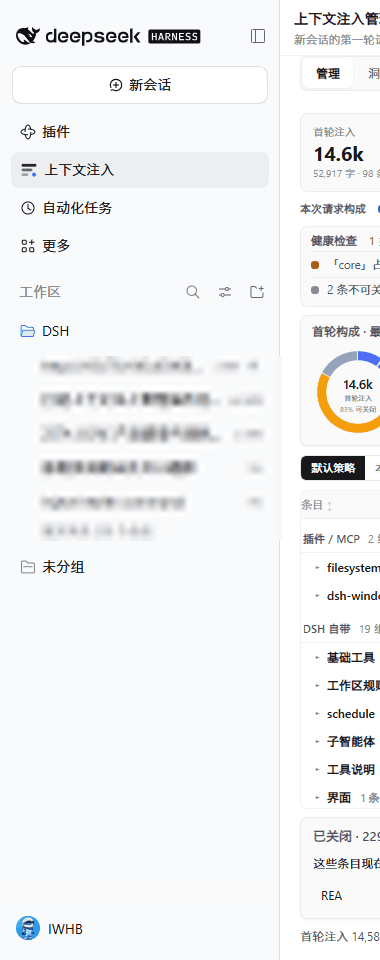
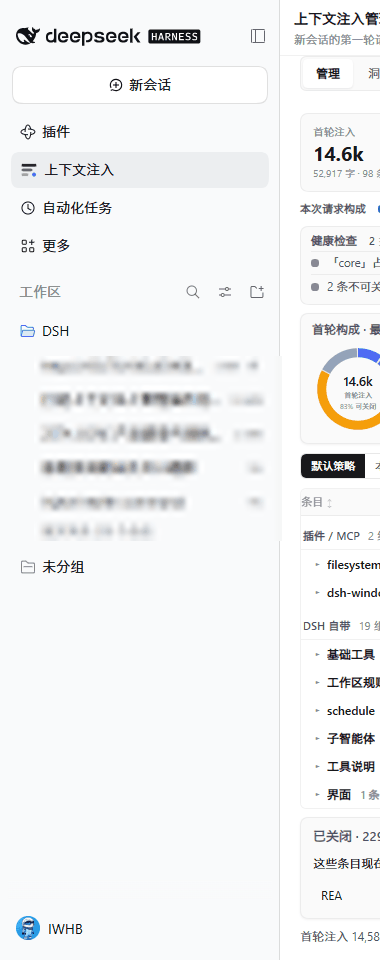
fix: 2.1.1 健康检查不再推荐关闭 DSH 自带套件（builtin-heavy 信息项），修复套件行开关发错分组 id 导致的哑开关
[dsh:session=8ba76b33] [dida:6afaed97e4b0294e306fce7b]

Changed region(s): [[0.7816, 0.25, 1.0, 0.8438]]

diff --git a/lib/health.js b/lib/health.js
@@ -18,6 +18,7 @@ import { percent } from './measure.js'
 
 export const HEALTH_CODES = Object.freeze([
   'heavy-suite',
+  'builtin-heavy',
   'duplicate-skill',
   'tool-name-collision',
   'catalog-truncated',
@@ -116,16 +117,20 @@ export function buildHealth(snapshot) {
   const context = snapshot.context ?? {}
   const skills = snapshot.skillsState ?? {}
 
-  // heavy-suite: one suite carrying a quarter of the next first turn, or 30k
-  // token that is still on. A suite already switched off has nothing left to
-  // flag — its remaining tokens are zero and it drops out before the gate.
-  const heavy = groups
+  // heavy-suite: one installed plugin / MCP suite carrying a quarter of the next
+  // first turn, or 30k token that is still on. A suite already switched off has
+  // nothing left to flag — its remaining tokens are zero and it drops out before
+  // the gate. DSH built-in suites are reported separately as `builtin-heavy`
+  // (info, no action): the host's own tool families are not a sensible thing to
+  // recommend switching off, even when they are the biggest part of the turn.
+  const heavyCandidates = groups
     .map((group) => ({ group, ...effectiveGroup(group) }))
     .filter((entry) => entry.savable > 0)
     .map((entry) => ({ ...entry, share: percent(entry.tokens, Math.max(1, total)) }))
     .filter((entry) => entry.share >= HEAVY_SHARE || entry.tokens >= HEAVY_TOKENS)
     .sort((left, right) => right.tokens - left.tokens)
-    .slice(0, HEAVY_MAX_CHECKS)
+  const isBuiltin = (entry) => entry.group?.origin === 'builtin'
+  const heavy = heavyCandidates.filter((entry) => !isBuiltin(entry)).slice(0, HEAVY_MAX_CHECKS)
   for (const entry of heavy) {
     const group = entry.group
     checks.push({
@@ -139,6 +144,21 @@ export function buildHealth(snapshot) {
         channel: String(group.channel ?? ''),
       },
       action: groupAction(group, items),
+    })
+  }
+  const builtinHeavy = heavyCandidates.filter(isBuiltin)[0]
+  if (builtinHeavy !== undefined) {
+    const group = builtinHeavy.group
+    checks.push({
+      code: 'builtin-heavy',
+      severity: 'info',
+      params: {
+        label: String(group.label ?? group.id ?? ''),
+        tokens: builtinHeavy.tokens,
+        share: builtinHeavy.share,
+        count: builtinHeavy.count,
+        channel: String(group.channel ?? ''),
+      },
     })
   }
 

diff --git a/client.js b/client.js
@@ -4310,8 +4310,13 @@ body[data-ds-dark-theme] .ci-root{
             const verb = enabled ? t('turnedOn') : t('turnedOff')
             const count = group.items ? group.items.length : group.count
             const label = `${verb} ${groupLabelOf(t, group)} · ${count} ${t('items')}`
-            if (Array.isArray(group.parts) && group.parts.length > 1) {
-              act({ kind: 'groups', groups: group.parts, enabled }, label)
+            const parts = Array.isArray(group.parts) ? group.parts.filter((part) => part !== null && typeof part === 'object') : []
+            if (parts.length > 1) {
+              act({ kind: 'groups', groups: parts, enabled }, label)
+            } else if (parts.length === 1) {
+              // The merged row is keyed by label; the action needs the real
+              // channel+group pair, exactly like the health-strip action.
+              act({ kind: 'group', channel: parts[0].channel, group: parts[0].group, enabled }, label)
             } else {
               act({ kind: 'group', channel: group.channel, group: group.id, enabled }, label)
             }

diff --git a/lib/text.js b/lib/text.js
@@ -230,6 +230,8 @@ export function healthCheckText(check) {
   const params = check?.params ?? {}
   switch (check?.code) {
     case 'heavy-suite':
+    case 'builtin-heavy':
+      return `「${params.label ?? '套件'}」占首轮 ${params.share ?? 0}%（${formatTokens(params.tokens ?? 0)} token · ${params.count ?? 0} 条）——DSH 自带套件，不建议关闭`
       return `${params.label ?? '套件'} 占首轮 ${params.share ?? 0}%（${formatTokens(params.tokens ?? 0)} token · ${params.count ?? 0} 条）`
     case 'catalog-truncated':
       return `${params.count ?? 0} 个技能描述被截断（>${params.limit ?? 500} 字）`

diff --git a/docs/ARCHITECTURE.md b/docs/ARCHITECTURE.md
@@ -128,7 +128,7 @@ agent/created (source=startup|clear)
 
 `lib/health.js` 的 `buildHealth(snapshot)` 是纯函数：输入一份快照，输出 `{summary, checks}`；唯一的时钟值是 `snapshot.generatedAt`，所以同一份快照两次调用逐字节一致。面板、`/health` 路由、`/inject health` 都调它。
 
-- 固定 8 个 code 的枚举，当前实现实际会产生 6 个：`heavy-suite`（策略生效后单套仍占 ≥25% 或 ≥30k token）、`catalog-truncated`（描述被目录行截断）、`locked-items`（不可关项 ≥10%）、`unknown-window`（无测量）、`no-policy`（从没保存过策略且全开）、`empty-catalog`（目录为空且完整）。
+- 固定 9 个 code 的枚举，当前实现实际会产生 7 个：`heavy-suite`（策略生效后，**安装的插件 / MCP 套件**仍占 ≥25% 或 ≥30k token）、`builtin-heavy`（同类阈值但来源是 DSH 自带套件：只报 info、不给 action——关宿主的工具族不是合理默认）、`catalog-truncated`（描述被目录行截断）、`locked-items`（不可关项 ≥10%）、`unknown-window`（无测量）、`no-policy`（从没保存过策略且全开）、`empty-catalog`（目录为空且完整）。来源取自 `group.origin`：`plugin` 才进 `heavy-suite`，`builtin` 进 `builtin-heavy`；没有 `origin` 的旧快照按可行动处理，行为不变。
 - 检查一律读**有效投影**（`groups.onTokens` / `groups.onSavableTokens` / `snapshot.effective.totals`），不是当前会话冻结的全量装配：当前会话里已经关掉的套件条目还在（本会话不受新策略影响），但它的有效 token 是 0，所以关掉一套之后它自己的告警立刻消失。快照没有 `on*` 字段时回退到全量口径，旧宿主行为不变。
 - `duplicate-skill` 与 `tool-name-collision` **刻意不产生**：这版宿主的技能注册表与工具注册表在插件可见之前就解析掉了重名，报出来就是编造。枚举保留完整，未来宿主能观察到时再加，UI 契约不变。
 - `action.kind` 只有三种：`switch-group` / `open-content` / `open-tab`；`payload` 直接是 `POST /action` 能吃下的形状（`{channel, group, enabled, op}` 等），`switch-group` 额外带 `parts[]`（这套覆盖的每个 `channel+group`），面板一次点掉所有通道；旧宿主只给 `channel+group` 时面板按 label 反查。动作不再做二次映射。

diff --git a/README.md b/README.md
@@ -59,9 +59,11 @@ applies the switches without touching your files.
   one plain list without headers. `/summary` stamps `origin: "plugin" | "builtin"` on every item
   and group and adds the effective counters `onCount`, `offCount`, `onTokens`, `offTokens`,
   `onSavableTokens` to each group.
-- **Health checks** — deterministic findings (`heavy-suite`, `catalog-truncated`, `locked-items`,
-  `unknown-window`, `no-policy`, `empty-catalog`) over the policy-effective projection, each with a
-  one-click action.
+- **Health checks** — deterministic findings (`heavy-suite`, `builtin-heavy`, `catalog-truncated`,
+  `locked-items`, `unknown-window`, `no-policy`, `empty-catalog`) over the policy-effective
+  projection. Only installed plugin / MCP suites get a one-click "switch it off"; a large DSH
+  built-in suite is reported as an informational note, because closing the host's own tool families
+  is not a sensible default.
 - The content drawer, the insights tab and the rest of the control plane are unchanged.
 
 Full detail: [CHANGELOG.md](CHANGELOG.md) · [docs/DETAIL.md](docs/DETAIL.md).
@@ -175,7 +177,8 @@ The manage page opens with a deterministic strip of findings over the current sn
 
 | Code | Meaning | Action |
 | --- | --- | --- |
-| `heavy-suite` | One suite is ≥25% of the next first request under the saved policy (or ≥30k tokens) | Switch that suite off — every channel it spans |
+| `heavy-suite` | An installed plugin / MCP suite is ≥25% of the next first request under the saved policy (or ≥30k tokens) | Switch that suite off — every channel it spans |
+| `builtin-heavy` | A DSH built-in suite is that big (informational; closing host tool families is not recommended) | (informational) |
 | `catalog-truncated` | Skill descriptions are being cut at the catalog line length | Read the affected skill |
 | `locked-items` | Items that cannot be switched off are ≥10% of the first request | Switch to the manage list |
 | `unknown-window` | No measurement yet, so occupancy is unknowable | (informational) |

diff --git a/README.zh.md b/README.zh.md
@@ -50,8 +50,10 @@ MCP 的环境，230 个工具声明就能吃掉首轮 84k 里的约 67k。这些
   规则、内置工具族、指令文件）归在「DSH 自带」。只有一种来源时仍是不带分区标题的平铺清单。
   `/summary` 为每个条目与分组打上 `origin: "plugin" | "builtin"`，分组还带生效计数
   `onCount`、`offCount`、`onTokens`、`offTokens`、`onSavableTokens`。
-- **健康检查**：确定性的检查项（`heavy-suite`、`catalog-truncated`、`locked-items`、
-  `unknown-window`、`no-policy`、`empty-catalog`），读策略生效后的投影，每条可直接点动作。
+- **健康检查**：确定性的检查项（`heavy-suite`、`builtin-heavy`、`catalog-truncated`、
+  `locked-items`、`unknown-window`、`no-policy`、`empty-catalog`），读策略生效后的投影。只有
+  安装的插件 / MCP 套件会给「关掉这一套」；占比大的 DSH 自带套件只做提示，不建议关闭宿主自己的
+  工具族。
 - 内容抽屉、洞察页等其余表面不变。
 
 完整变化见 [CHANGELOG.md](CHANGELOG.md)，五分钟版见 [docs/DETAIL.zh.md](docs/DETAIL.zh.md)。
@@ -155,7 +157,8 @@ MCP 的环境，230 个工具声明就能吃掉首轮 84k 里的约 67k。这些
 
 | code | 含义 | 动作 |
 | --- | --- | --- |
-| `heavy-suite` | 策略生效后，某一套仍占下一轮首轮 ≥25%（或 ≥30k token） | 关掉这一套（它覆盖的所有通道） |
+| `heavy-suite` | 策略生效后，某个安装的插件 / MCP 套件仍占下一轮首轮 ≥25%（或 ≥30k token） | 关掉这一套（它覆盖的所有通道） |
+| `builtin-heavy` | DSH 自带套件占到同样的量（只提示；不建议关闭宿主工具族） | （提示） |
 | `catalog-truncated` | 技能描述被目录行长度截断 | 看那条技能的内容 |
 | `locked-items` | 不可关的条目占首轮 ≥10% | 去管理列表 |
 | `unknown-window` | 还没有测量数据，占用率无从判断 | （提示） |

diff --git a/CHANGELOG.md b/CHANGELOG.md
@@ -1,5 +1,30 @@
 # Changelog
 
+## 2.1.1 — 2026-11-18
+
+### Fixed
+
+- **Health checks no longer recommend closing DSH's own suites.** `heavy-suite` is now restricted to
+  installed plugin / MCP suites (`group.origin === 'plugin'`), so a big `core`, `browser`,
+  `schedule` or `subagent` suite gets an informational `builtin-heavy` note instead of a "turn this
+  suite off" button — closing the host's own tool families is not a sensible default. Snapshots
+  without `origin` (older hosts) keep the previous behaviour.
+- **Switching a suite from the list actually writes the policy.** The grouped list keys rows by
+  label (`filesystem`) while `POST /action` needs the real group id (`skills:filesystem`); the
+  single-channel branch sent the label, matched zero rows and returned `changed: false`, so a click
+  on a suite row was a silent no-op. It now sends the real `channel + group` pair from the row's
+  parts (same as the health strip action).
+
+### Verification
+
+- `node --test` 211/211 (two new tests: built-in heavy suites are informational and carry no
+  action; a heavy plugin suite keeps its switch recommendation; the huge tool fixture moved to an
+  MCP namespace so it remains a plugin suite).
+- Live QA: `core` at 38% renders as `builtin-heavy` info with no button; clicking the `filesystem`
+  suite switch now answers `changed: true` and writes `skills: except […]`.
+- Docs screenshots and the demo GIF re-shot after the change and re-masked (host session titles,
+  session ids, local policy path).
+
 ## 2.1.0 — 2026-11-18
 
 The focus release. The plugin explicitly does one job — show and manage what a new DSH session

diff --git a/docs/FAQ.md b/docs/FAQ.md
@@ -36,7 +36,7 @@
 
 ## 健康检查说「没有发现问题」，但我明明觉得很大？
 
-健康检查是确定性的 6 类 code：重套件（单套 ≥25% 或 ≥30k）、描述截断、不可关项占比、窗口未知、从没保存过策略、空技能目录。它只报"能行动"的问题，不按直觉打分。
+健康检查是确定性的 7 类 code：插件 / MCP 重套件（单套 ≥25% 或 ≥30k）、DSH 自带套件占比提示（只提示，不建议关闭）、描述截断、不可关项占比、窗口未知、从没保存过策略、空技能目录。它只报"能行动"的问题，不按直觉打分：宿主自带的工具族再大也不会被推荐关闭。
 
 另外两个契约里的 code（`duplicate-skill`、`tool-name-collision`）**永远不会出现**：这版宿主在插件能看到之前就把重名解析掉了，凭空报一条就是撒谎。枚举保留着，等宿主能观察时再加。
 

diff --git a/docs/DETAIL.md b/docs/DETAIL.md
@@ -74,7 +74,8 @@ re-interpreted as HTML. A slow read returns `timeout` after 2 seconds instead of
 
 | Code | Fires when | Action |
 | --- | --- | --- |
-| `heavy-suite` | one suite is ≥25% of the next first request under the saved policy, or ≥30k tokens | turn that suite off (every channel it spans) |
+| `heavy-suite` | an installed plugin / MCP suite is ≥25% of the next first request under the saved policy, or ≥30k tokens | turn that suite off (every channel it spans) |
+| `builtin-heavy` | a DSH built-in suite is that big (informational: closing host tool families is not recommended) | — |
 | `catalog-truncated` | skill descriptions are cut at the catalog line length | read the affected skill |
 | `locked-items` | items that cannot be switched off are ≥10% | jump to the manage list |
 | `unknown-window` | no measurement yet, so occupancy is unknowable | — |

diff --git a/docs/DETAIL.zh.md b/docs/DETAIL.zh.md
@@ -53,7 +53,8 @@
 
 | code | 什么时候报 | 动作 |
 | --- | --- | --- |
-| `heavy-suite` | 策略生效后，某一套仍占下一轮首轮 ≥25% 或 ≥30k token | 关掉这一套（覆盖的所有通道） |
+| `heavy-suite` | 策略生效后，某个安装的插件 / MCP 套件仍占下一轮首轮 ≥25% 或 ≥30k token | 关掉这一套（覆盖的所有通道） |
+| `builtin-heavy` | DSH 自带套件占到同样的量（只提示，不建议关闭宿主工具族） | — |
 | `catalog-truncated` | 技能描述被目录行长度截断 | 看那条技能的内容 |
 | `locked-items` | 不可关条目占首轮 ≥10% | 去管理列表 |
 | `unknown-window` | 还没有测量数据，占用率无从判断 | — |
